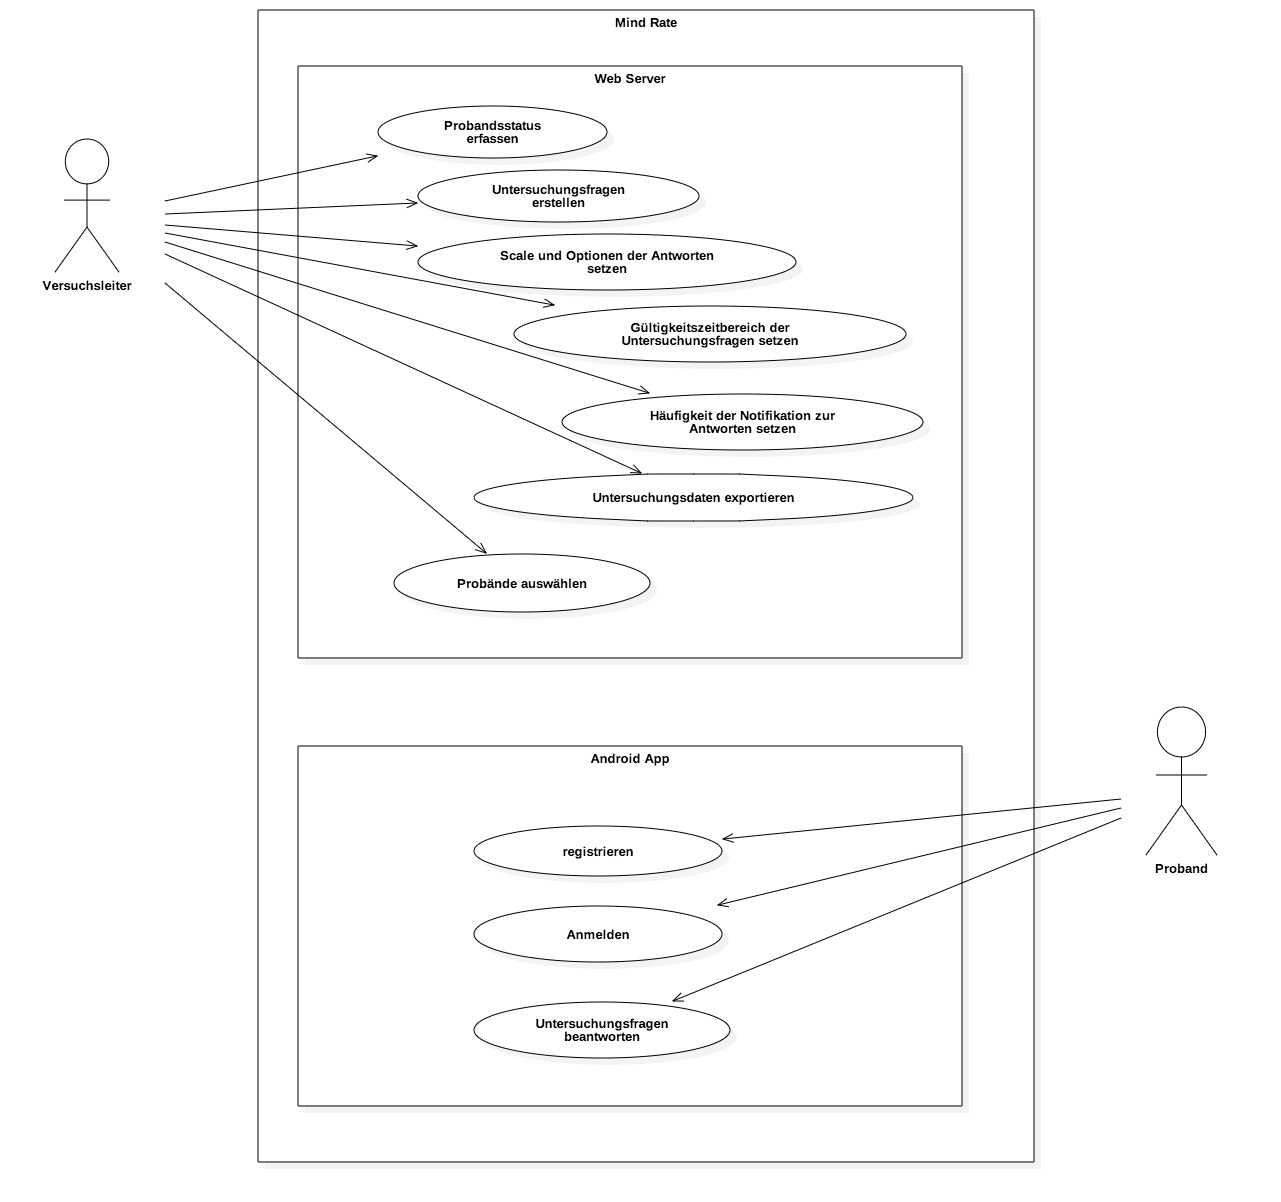
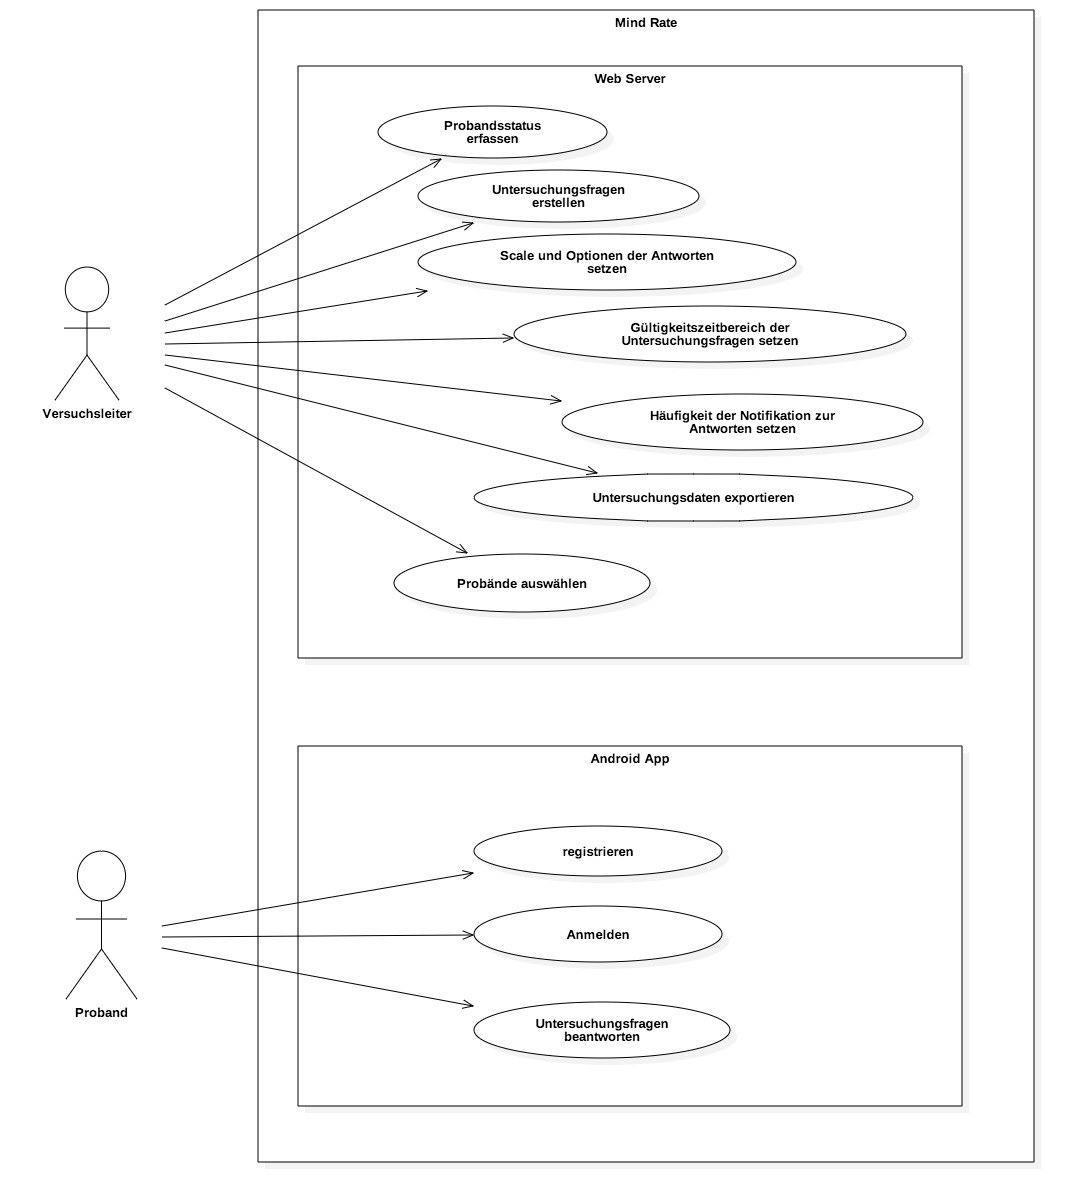
1. improved use case diagram
2. create \chapter{Systemmodelle}

3. added use case diagram in \subsection{Anwendungsfalldiagramm}

diff --git a/Pflichtenheft/pflichtenheft.tex b/Pflichtenheft/pflichtenheft.tex
@@ -199,8 +199,8 @@
     \chapter{Nichtfunktionale Anforderungen}
         Leistungen: Anforderungen bezüglich Zeit und Genauigkeit
  
-    \chapter{Benutzungsoberfläche}
-        Benutzungsoberfläche: grundlegende Anforderungen, Zugriffsrechte
+    % \chapter{Benutzungsoberfläche}
+    %     Benutzungsoberfläche: grundlegende Anforderungen, Zugriffsrechte
  
         \begin{figure}[ht]
             \centering
@@ -209,6 +209,22 @@
         \end{figure}
 
     \chapter{Globale Testfälle}
+
+    \chapter{Systemmodelle}
+
+        \section{Szenarien}
+
+        \section{Anwendungsf\"alle}
+
+            \newpage
+            \subsection{Anwendungsfalldiagramm} 
+                \vspace{0.2cm}
+                \begin{center}
+                    \includegraphics[scale = 0.4]{UseCaseDiagram1.jpg}
+                \end{center}
+
+        \newpage
+        \section{Benutzerschnittstelle}
  
     \chapter{Qualitätsziele}
         Qualiätsziele: Allgemeine Ziele sind meistens Änderbarkeit und Wartbarkeit.
